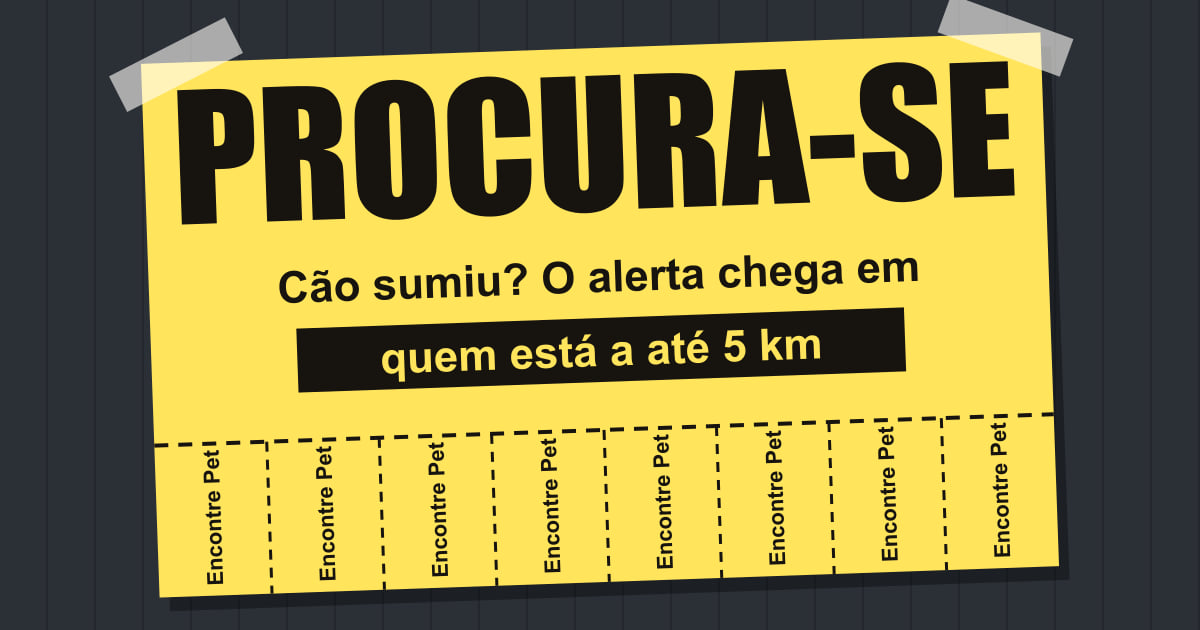
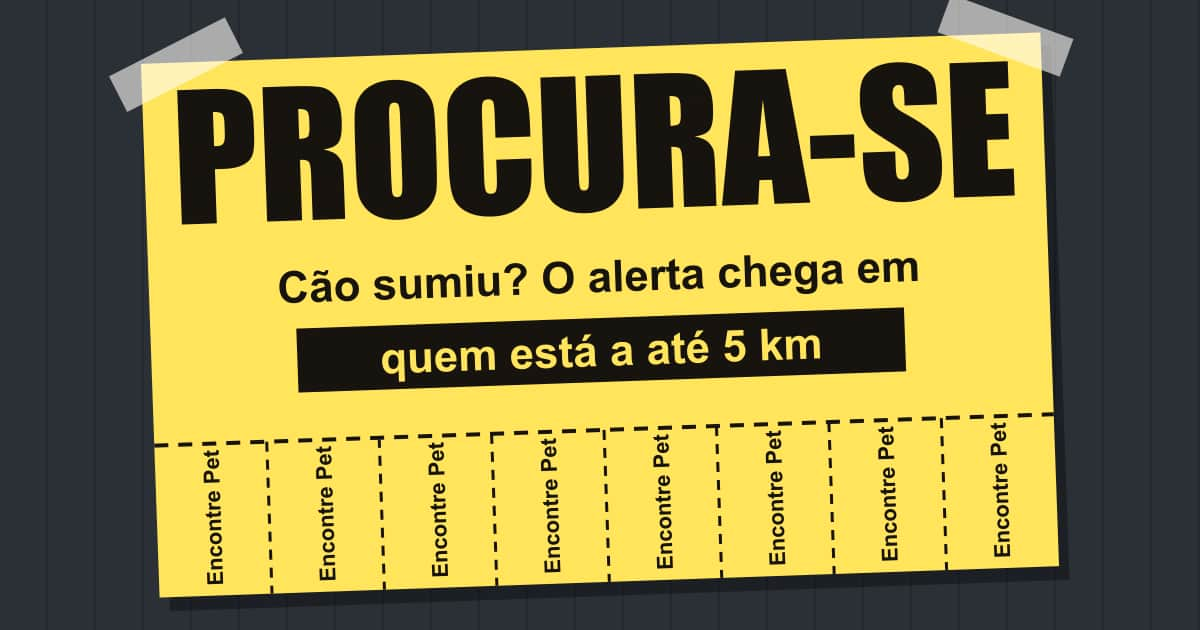
perf(landing): pré-visualização em 50KB e link curto na mensagem pronta
- og-cartaz.jpg recomprimido de 104KB para 50KB (q65, 4:2:0) — carrega
  mais rápido quando o WhatsApp monta a pré-visualização
- mensagem pronta usa "encontre-pet.netlify.app/conheca", sem https://

diff --git a/landing/index.html b/landing/index.html
@@ -273,7 +273,8 @@
 
 <script>
 (function () {
-  var LINK = 'https://encontre-pet.netlify.app/conheca';
+  // Sem https:// — mais curto na mensagem; o WhatsApp reconhece o link igual.
+  var LINK = 'encontre-pet.netlify.app/conheca';
   var I18N = {
     pt: {
       skip:'Pular para o conteúdo', procura:'Procura-se',
